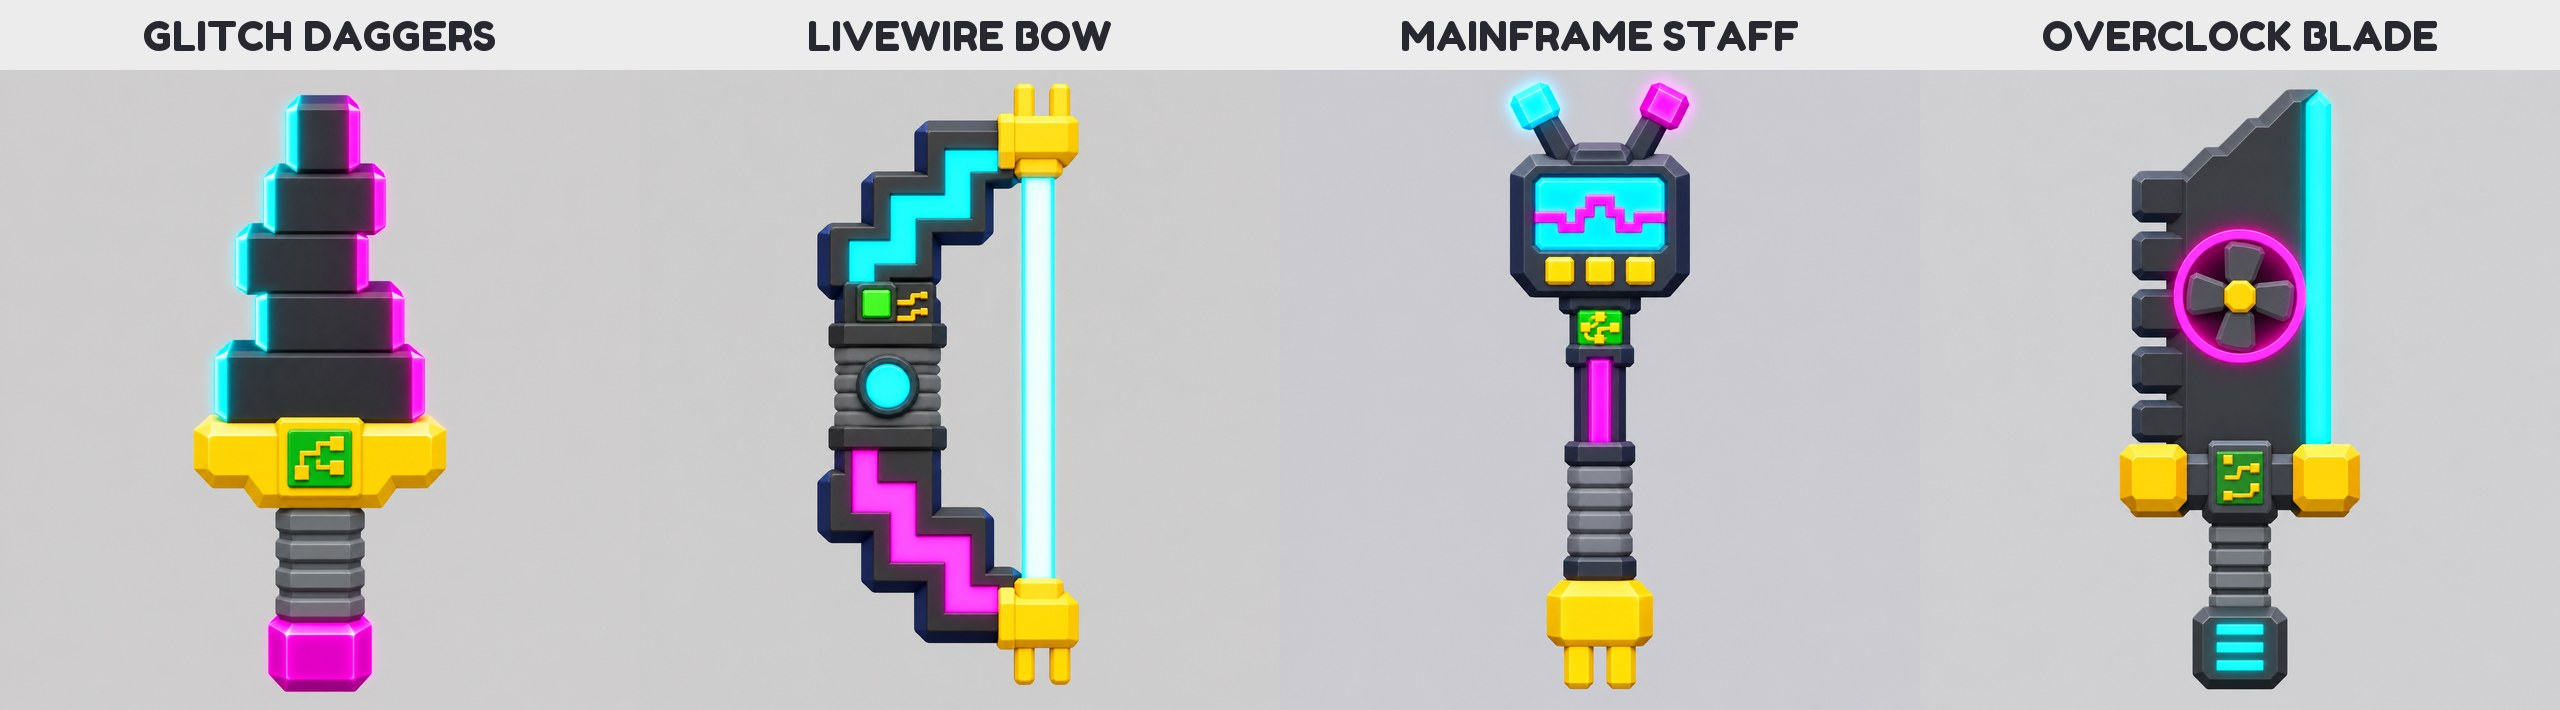
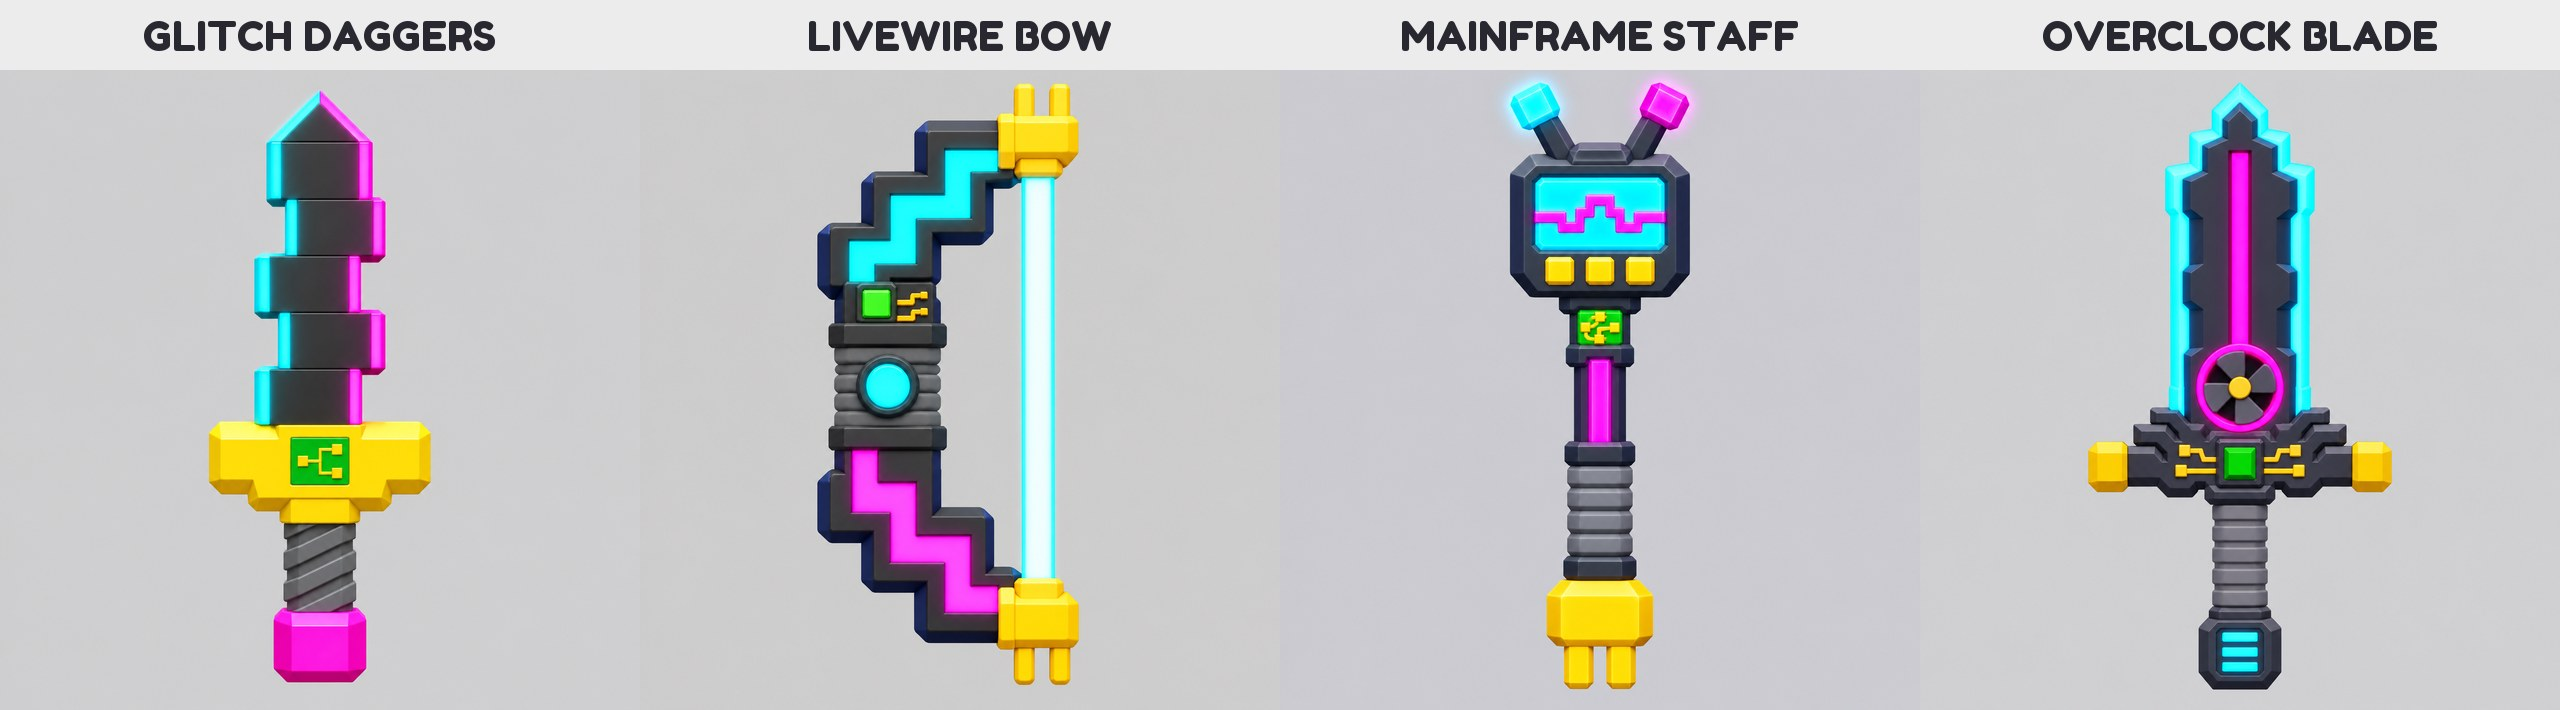
WIP: Neon Circuit's dagger and sword redrawn (a sideways-torn blade, a two-edged greatsword)

Changed region(s): [[0.8125, 0.1239, 0.9375, 0.9606], [0.0625, 0.1239, 0.1875, 0.9915]]

diff --git a/assets/concepts/blocky/weapons/skins/sets/set_prompts.py b/assets/concepts/blocky/weapons/skins/sets/set_prompts.py
@@ -81,25 +81,33 @@ SETS = {
             ),
             (
                 "overclock_blade", "OVERCLOCK BLADE", "greatsword", "golden_blade.png",
-                "a huge wide cleaver-like blade of graphite-black blocks with a slanted stepped tip; "
-                "its back edge is a row of five big square cooling fins like a heat sink, and its "
-                "cutting edge is one thick glowing cyan light bar from guard to tip; set into the "
-                "middle of the blade is a big round cooling fan, a glowing magenta ring with four "
-                "chunky graphite fan blades and a yellow hub; the guard is two fat bright yellow "
-                "block capacitors, one each side, joined by a graphite bar holding the square green "
-                "circuit chip; a short grey ribbed rubber grip; the pommel is a graphite battery block "
-                "with three glowing cyan charge bars; glowing strongly cyan and magenta",
+                "a big heroic two-edged greatsword, symmetrical left to right, NOT a cleaver or a "
+                "knife: a long broad blade of graphite-black blocks, a little wider near the top than "
+                "at the guard, ending in a pointed tip built of three centred steps; a thick glowing "
+                "cyan light bar runs up BOTH cutting edges from guard to tip; down the centre of the "
+                "blade runs a glowing magenta light strip, and set into the blade just above the "
+                "guard is a round cooling fan, a glowing magenta ring with four chunky graphite fan "
+                "blades and a yellow hub; the guard is a wide heat sink, three square graphite fins "
+                "stepping upward on each side like wings, each side ending in a fat bright yellow "
+                "block capacitor, with the square green circuit chip in the guard's middle; a grey "
+                "ribbed rubber grip long enough for two hands; the pommel is a graphite battery block "
+                "with three glowing cyan charge bars; the blade is about three times as long as the "
+                "grip; glowing strongly cyan and magenta",
             ),
             (
                 "glitch_daggers", "GLITCH DAGGERS", "dagger", "golden_daggers.png",
-                "its blade is cut into five thick horizontal slices of graphite-black block, each "
-                "slice shifted a little left or right of the one below it, alternating, as if the "
-                "picture had glitched, the slices getting narrower toward a single square block tip; "
-                "the left edge of every slice glows cyan and the right edge glows magenta; all the "
-                "slices touch, nothing floats; the guard is a wide bright yellow block shaped like a "
-                "chunky game cartridge with the square green circuit chip in its middle; a grey "
-                "ribbed rubber grip; the pommel is a glowing magenta cube; glowing strongly cyan and "
-                "magenta",
+                "a straight, slim dagger blade with a pointed tip that looks torn sideways by a screen "
+                "glitch: the blade is one tall narrow graphite-black bar, all the same width, cut "
+                "across into five equal slices, and the second and fourth slices are slid half a "
+                "block to the RIGHT while the first, third and fifth stay in line, so the two edges "
+                "run in a square-wave zigzag up the blade; the fifth slice is topped by a small "
+                "pointed block tip. It must NOT be a pyramid, a tower or a stack that narrows in "
+                "steps: every slice is the same width. The left face of each slice has a glowing cyan "
+                "edge strip and the right face a glowing magenta one, like a picture whose colours "
+                "have split apart; all the slices touch, nothing floats; the guard is a wide bright "
+                "yellow block shaped like a chunky game cartridge with the square green circuit chip "
+                "in its middle; a grey ribbed rubber grip; the pommel is a glowing magenta cube; "
+                "glowing strongly cyan and magenta",
             ),
         ],
     ),
